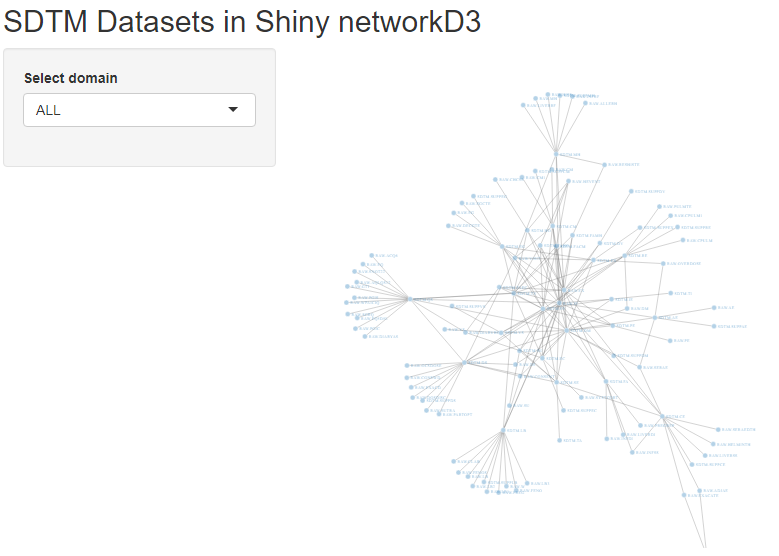
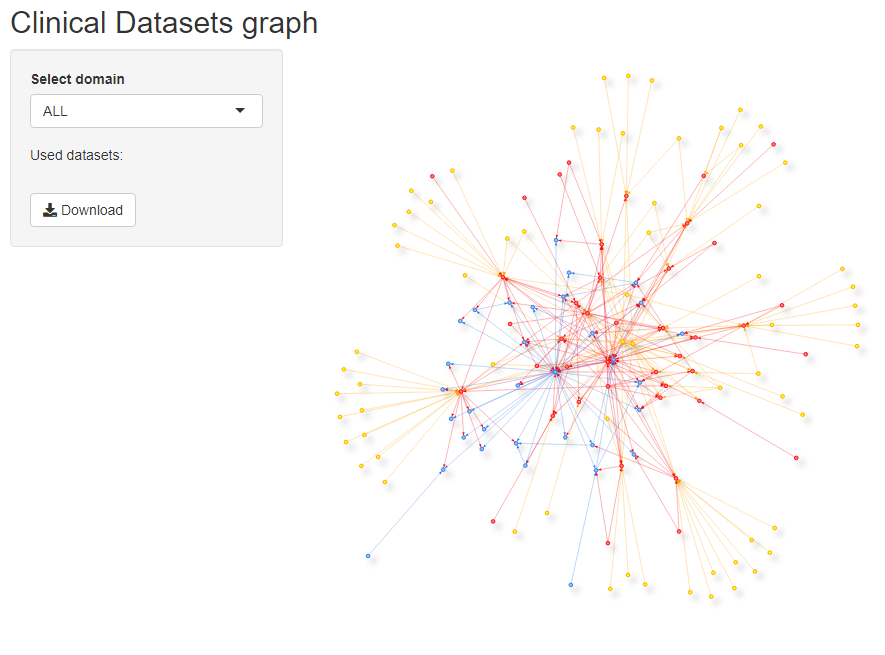
Added data masking
- no real RAW, SDTM, ADaM dataset names are shown
- added images to better explain working of the dashoard

diff --git a/masking.py b/masking.py
@@ -1,0 +1,33 @@
+# file to maks true values of clinical datasets
+# to ensure maximal data protection
+# I am using Python because it's more suited for that task than # REVIEW:
+
+import pandas as pd
+
+# read in file that has secret codes ;) for all the datasets
+df = pd.read_csv('masking.csv')
+
+# the file has two columns: "x" (true name) and "code"
+dict_ = dict(zip(df['x'],df['code']))
+
+# read in original file with nodes and edges
+dataframe = pd.read_csv('dataframe.csv')
+unique = pd.read_csv('unique_names.csv')
+
+def mask(x):
+    if x in dict_:
+        return dict_[x]
+
+dataframe_masked = pd.DataFrame()
+unique_masked = unique.copy()
+
+for cols in ['from','to']:
+    dataframe_masked[cols] = dataframe[cols].apply(lambda x: mask(x))
+
+unique_masked['id'] =  unique['id'].apply(lambda x: mask(x))
+
+# save the masked version that can be published
+dataframe_masked.to_csv('dataframe_masked.csv', index = False)
+unique_masked.to_csv('unique_masked.csv', index = False)
+
+print("Masked files are ready")
